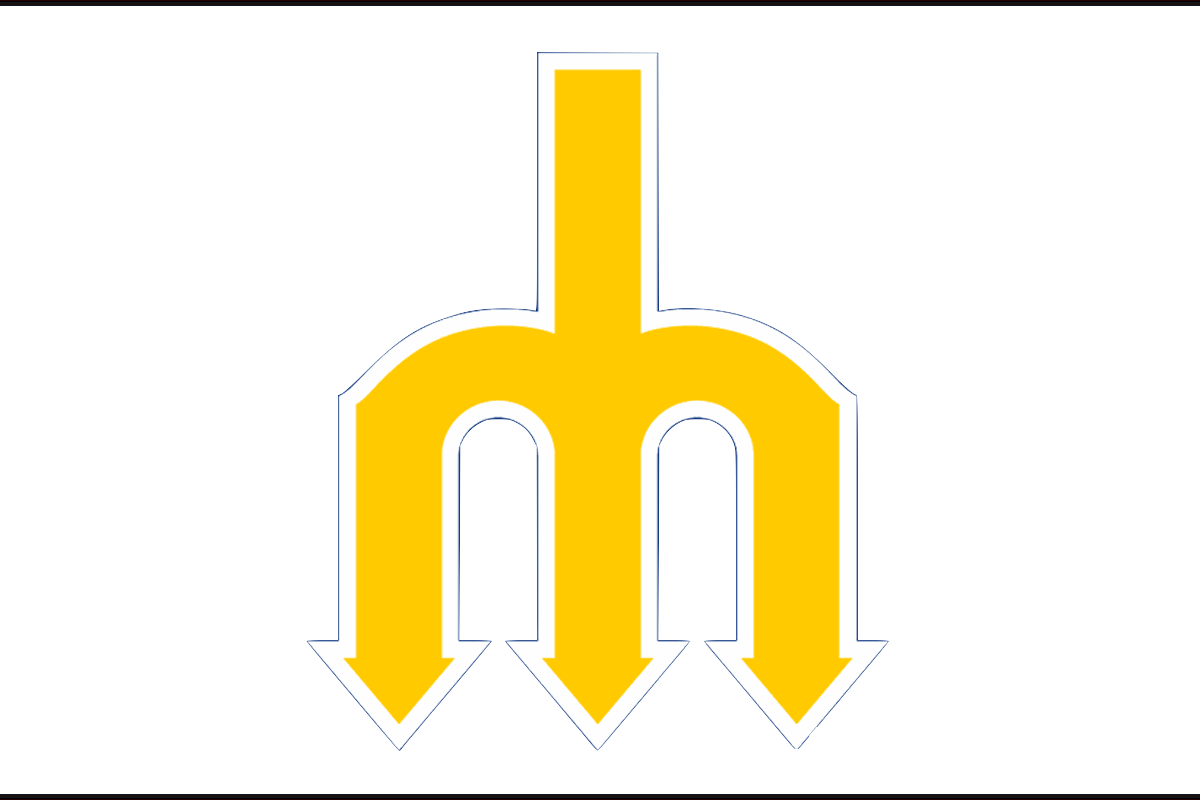
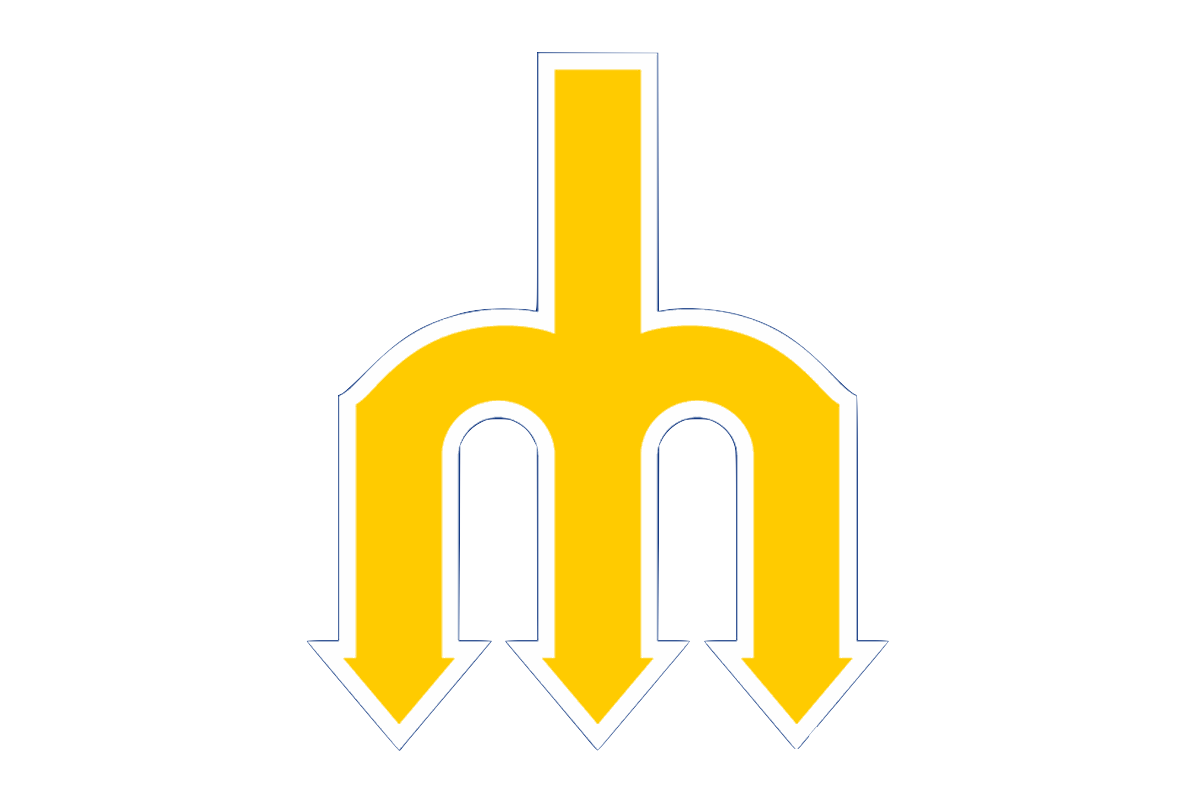
scores page polish v12

Changed region(s): [[0.0, 0.9688, 1.0, 1.0], [0.0, 0.0, 1.0, 0.0312]]

diff --git a/app/globals.css b/app/globals.css
@@ -784,3 +784,96 @@ html[data-theme="light"] { --score-meta: #4b5563; }
   height: 1.9rem !important;
   transform: translateY(-6px);
 }
+
+
+/* Scores page polish v12 */
+.retro-league-head {
+  padding-top: 0.58rem !important;
+  padding-bottom: 0.38rem !important;
+  min-height: 2.48rem !important;
+  align-items: center !important;
+  overflow: visible !important;
+}
+
+.retro-league-head h2 {
+  display: flex;
+  align-items: center;
+  min-height: 1.35rem;
+  font-size: 0.9rem !important;
+  line-height: 1.18 !important;
+  padding-top: 2px !important;
+  padding-bottom: 0 !important;
+  margin: 0 !important;
+}
+
+.retro-league-head .standings-header-btn {
+  min-height: 1.7rem;
+  height: 1.7rem;
+  display: inline-flex !important;
+  align-items: center !important;
+  justify-content: center !important;
+  line-height: 1 !important;
+  padding-top: 0 !important;
+  padding-bottom: 0 !important;
+  text-align: center !important;
+}
+
+.retro-league-head button:not(.standings-header-btn) {
+  display: inline-flex !important;
+  align-items: center !important;
+  justify-content: center !important;
+}
+
+.score-team-logo-cell {
+  width: 2rem !important;
+  height: 2rem !important;
+  flex: 0 0 2rem !important;
+  display: flex !important;
+  align-items: center !important;
+  justify-content: center !important;
+  overflow: visible !important;
+}
+
+.score-team-logo-wrap,
+.favorite-score-card .score-team-logo-wrap {
+  position: relative !important;
+  width: 1.72rem !important;
+  height: 1.72rem !important;
+  flex: 0 0 1.72rem !important;
+  display: inline-flex !important;
+  align-items: center !important;
+  justify-content: center !important;
+  transform: none !important;
+  overflow: visible !important;
+}
+
+.score-team-logo-wrap img,
+.favorite-score-card .score-team-logo-wrap img {
+  width: 100% !important;
+  height: 100% !important;
+  object-fit: contain !important;
+  object-position: center center !important;
+  max-width: 100% !important;
+  max-height: 100% !important;
+}
+
+.logo-outline-dark,
+.score-team-logo-wrap,
+.score-team-logo-wrap img {
+  -webkit-filter:
+    drop-shadow(0.8px 0 0 rgba(255,255,255,.86))
+    drop-shadow(-0.8px 0 0 rgba(255,255,255,.86))
+    drop-shadow(0 0.8px 0 rgba(255,255,255,.86))
+    drop-shadow(0 -0.8px 0 rgba(255,255,255,.86)) !important;
+  filter:
+    drop-shadow(0.8px 0 0 rgba(255,255,255,.86))
+    drop-shadow(-0.8px 0 0 rgba(255,255,255,.86))
+    drop-shadow(0 0.8px 0 rgba(255,255,255,.86))
+    drop-shadow(0 -0.8px 0 rgba(255,255,255,.86)) !important;
+}
+
+html[data-theme="light"] .score-team-logo-wrap,
+html[data-theme="light"] .score-team-logo-wrap img {
+  -webkit-filter: none !important;
+  filter: none !important;
+}

diff --git a/components/LeaguesView.tsx b/components/LeaguesView.tsx
@@ -126,7 +126,7 @@ export default function LeaguesView({ onTeamLogoClick, onPlayerClick, initialLea
       <div>
         <FavoritesScores date={date} favoriteKeys={favoriteKeys} onGameClick={(league, eventId) => setSelectedEvent({ league, eventId })} />
         {leagues.map((lg) => (
-          <LeagueDaySection key={`${lg}-${date}`} league={lg} date={date} density={settings.density} onGameClick={(eventId) => setSelectedEvent({ league: lg, eventId })} onStandingsClick={onStandingsClick} stickyTop={118} />
+          <LeagueDaySection key={`${lg}-${date}`} league={lg} date={date} density={settings.density} onGameClick={(eventId) => setSelectedEvent({ league: lg, eventId })} onStandingsClick={onStandingsClick} stickyTop={124} />
         ))}
       </div>
     </div>
@@ -205,7 +205,7 @@ function FavoritesScores({ date, favoriteKeys, onGameClick }: { date: string; fa
   return (
     <>
       <section className="mt-3 border-b" style={{ borderColor: "var(--border)" }}>
-        <SectionHeader title="Favorites" sticky stickyTop={118} />
+        <SectionHeader title="Favorites" sticky stickyTop={124} />
         <div className="grid grid-cols-1">
           {games.slice(0, 4).map((game: any) => <ScoreCard key={`${game.league}-${game.id}`} league={game.league} game={game} density="expanded" favorite favoriteSide={game.favoriteSide} onClick={() => onGameClick(game.league, game.id)} />)}
         </div>
@@ -214,7 +214,7 @@ function FavoritesScores({ date, favoriteKeys, onGameClick }: { date: string; fa
   );
 }
 
-function LeagueDaySection({ league, date, density, onGameClick, onStandingsClick, stickyTop = 118 }: { league: League; date: string; density: ScoreDensity; onGameClick: (eventId: string) => void; onStandingsClick?: (league: League) => void; stickyTop?: number }) {
+function LeagueDaySection({ league, date, density, onGameClick, onStandingsClick, stickyTop = 124 }: { league: League; date: string; density: ScoreDensity; onGameClick: (eventId: string) => void; onStandingsClick?: (league: League) => void; stickyTop?: number }) {
   const freshKey = useFreshKey();
   const [collapsed, setCollapsed] = useState(false);
   const { data, error, isLoading } = useSWR(`/api/league?league=${league}&date=${date}&_t=${freshKey}`, fetcher, {
@@ -254,22 +254,22 @@ function LeagueDaySection({ league, date, density, onGameClick, onStandingsClick
   );
 }
 
-function SectionHeader({ title, logo, sticky = false, collapsed = false, onToggle, onStandingsClick, stickyTop = 118 }: { title: string; logo?: string; sticky?: boolean; collapsed?: boolean; onToggle?: () => void; onStandingsClick?: () => void; stickyTop?: number }) {
+function SectionHeader({ title, logo, sticky = false, collapsed = false, onToggle, onStandingsClick, stickyTop = 124 }: { title: string; logo?: string; sticky?: boolean; collapsed?: boolean; onToggle?: () => void; onStandingsClick?: () => void; stickyTop?: number }) {
   return (
     <div
-      className={`retro-league-head px-4 py-2.5 flex items-center justify-between ${sticky ? "sticky z-20" : ""}`}
+      className={`retro-league-head px-4 py-2 flex items-center justify-between ${sticky ? "sticky z-20" : ""}`}
       style={{ top: sticky ? stickyTop : undefined }}
     >
       <div className="flex items-center gap-3 min-w-0">
         {logo && <Image src={logo} alt={title} width={22} height={22} className="object-contain logo-outline-dark" unoptimized />}
-        <h2 className="text-base font-black tracking-[.11em] uppercase truncate">{title}</h2>
+        <h2 className="text-[0.9rem] font-black tracking-[.1em] uppercase truncate leading-[1.18] pt-[2px]">{title}</h2>
       </div>
       <div className="flex items-center gap-2">
         {onStandingsClick && (
           <button
             type="button"
             onClick={(e) => { e.stopPropagation(); onStandingsClick(); }}
-            className="rounded-lg px-2.5 py-1.5 text-[10px] font-black tracking-wide"
+            className="standings-header-btn rounded-lg min-h-[1.72rem] px-2.5 py-0 text-[10px] font-black tracking-wide inline-flex items-center justify-center leading-none text-center"
             style={{ background: "rgba(0,0,0,.16)", color: "var(--text)", border: "1px solid var(--border)" }}
           >
             STANDINGS
@@ -397,7 +397,7 @@ function TeamLine({ team, league, compact, favorite, game, showLogo = true }: { 
   const showScore = scoreShouldShow(game) && team.score !== undefined && team.score !== null && team.score !== "";
   return (
     <div className={`score-team-row flex items-center ${showLogo ? "gap-2.5" : "gap-0"} py-0.5`}>
-      {showLogo && <div className="score-team-logo-cell">{img && <ScoreTeamLogo team={team} league={league} size={favorite ? 30 : 30} />}</div>}
+      {showLogo && <div className="score-team-logo-cell">{img && <ScoreTeamLogo team={team} league={league} size={30} />}</div>}
       <div className="flex-1 flex items-center gap-1.5 min-w-0">
         <span className={`${favorite ? "text-[20px] uppercase" : "text-[18px]"} score-team-name truncate font-black tracking-tight`}>{label}</span>
         {recordText && <span className="text-[11px] font-medium tracking-tight score-card-meta" style={{ color: "var(--score-meta)" }}>{recordText}</span>}